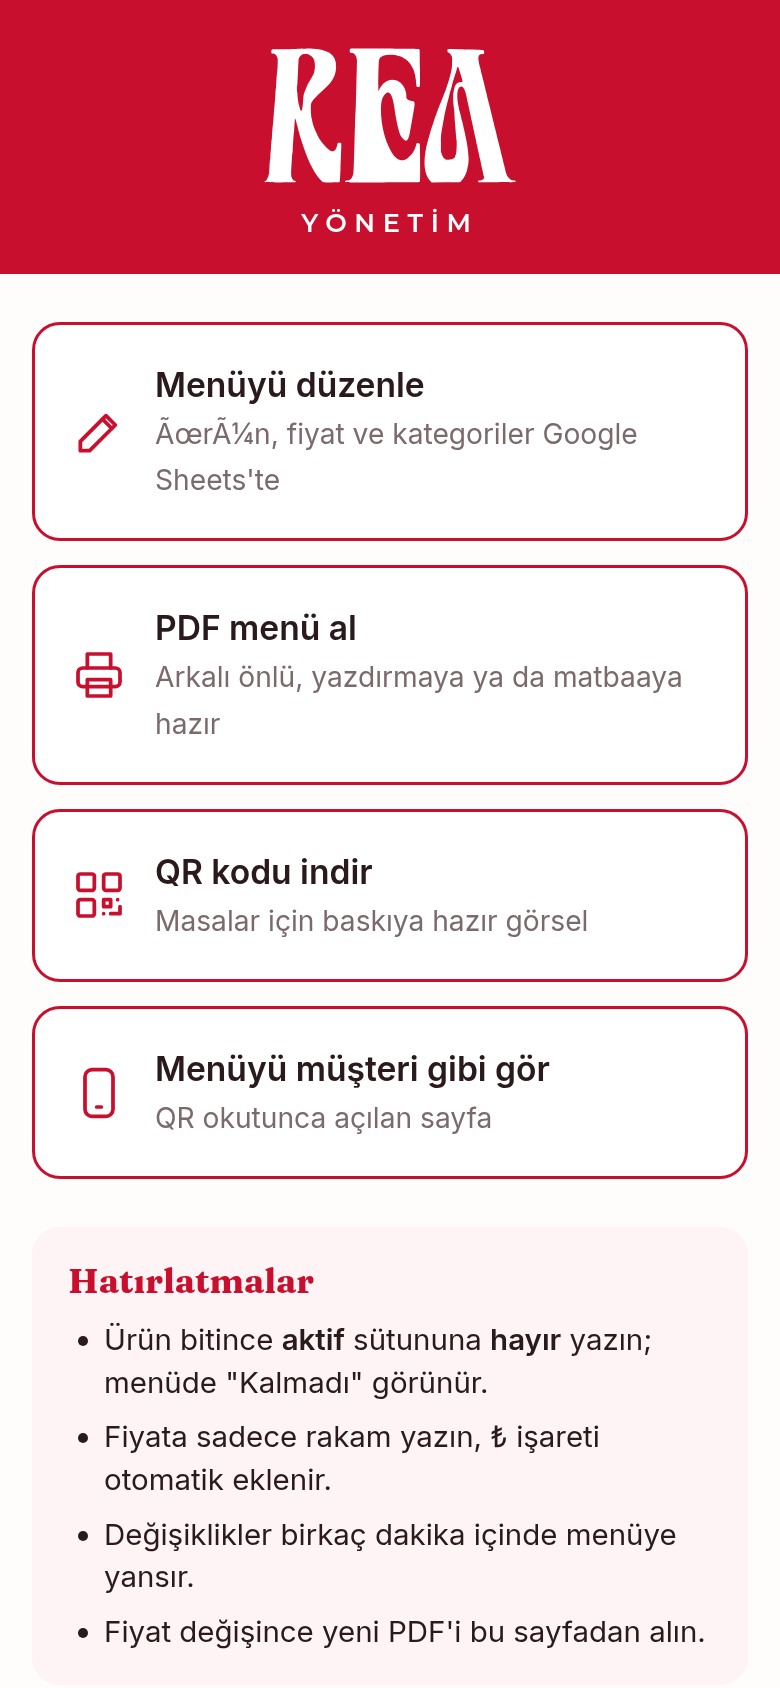
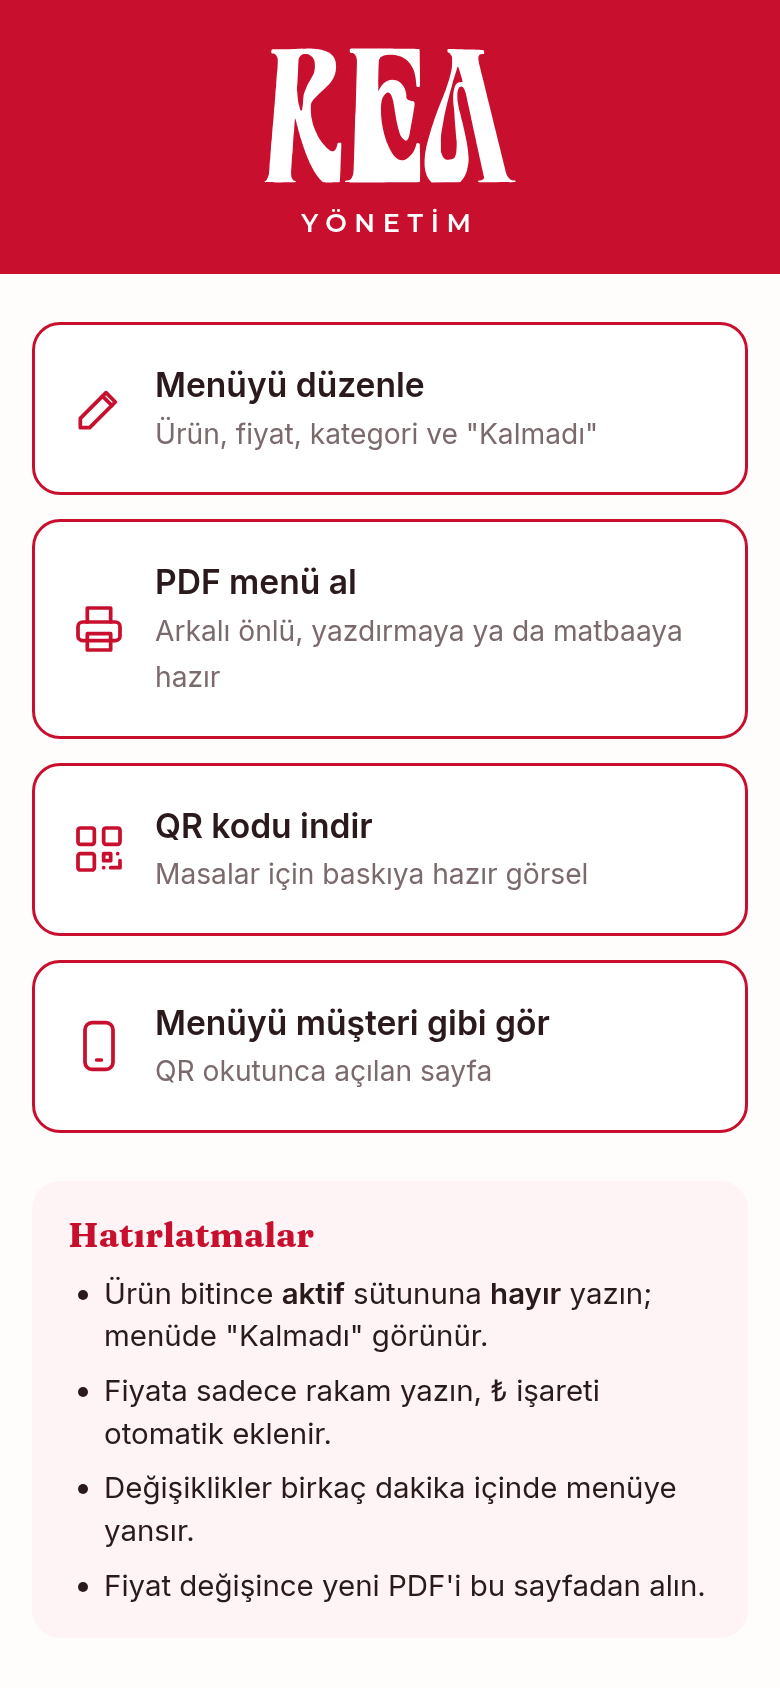
docs: show the admin panel in the pitch deck

diff --git a/tanitim/index.html b/tanitim/index.html
@@ -102,33 +102,18 @@ ol.steps span { color: var(--muted); font-size: 3.6mm; }
 
 <!-- 3. Siz güncellersiniz -->
 <section class="page">
-  <div class="text" style="flex: 0 0 150mm">
+  <div class="text">
     <p class="kicker">Menüyü siz yönetirsiniz</p>
-    <h2>Fiyat değişti mi?<br>Tabloda düzeltin, bitti.</h2>
-    <p class="lead">Menü bir Google Sheets tablosundan okunur. Telefonunuzdan ya da bilgisayardan değiştirdiğiniz her şey birkaç dakika içinde QR menüye yansır.</p>
+    <h2>Fiyat değişti mi?<br>Panelden düzeltin, bitti.</h2>
+    <p class="lead">Şifreyle girdiğiniz yönetim panelinden menünün her şeyini telefonunuzdan değiştirirsiniz. Kaydettiğiniz her şey birkaç dakika içinde QR menüye yansır.</p>
     <ul class="points">
-      <li><b>Kimseyi aramanıza gerek yok</b><span>Yeni ürün, yeni fiyat, yeni kategori: hepsi tablodan.</span></li>
-      <li><b>Ürün bitince "hayır" yazın</b><span>Menüde kalır, yanında "Kalmadı" yazar. Gelince "evet" yaparsınız.</span></li>
-      <li><b>Ek sunucu ya da uygulama gerekmez</b><span>Menü ücretsiz altyapıda çalışır, barındırma masrafı çıkmaz.</span></li>
+      <li><b>Kimseyi aramanıza gerek yok</b><span>Fiyat, yeni ürün, açıklama, yeni kategori: hepsi panelden.</span></li>
+      <li><b>Ürün bitince "Kalmadı"yı işaretleyin</b><span>Menüde kalır, fiyatın yerine "Kalmadı" yazar. Gelince işareti kaldırırsınız.</span></li>
+      <li><b>Veriler sizin hesabınızda</b><span>Menü kendi Google hesabınızda saklanır; ek sunucu, uygulama ya da barındırma masrafı yok.</span></li>
     </ul>
   </div>
-  <div class="visual" style="flex: 1; flex-direction: column; gap: 6mm">
-    <div class="sheet">
-      <div class="bar">REA Menü · Google Sheets</div>
-      <table>
-        <tr><th>kategori</th><th>ürün</th><th>fiyat</th><th>aktif</th></tr>
-        <tr><td>Sıcak Kahveler</td><td>Latte</td><td>120</td><td>evet</td></tr>
-        <tr><td>Soğuk İçecekler</td><td>Cold Brew</td><td>140</td><td>evet</td></tr>
-        <tr class="hl"><td>Soğuk İçecekler</td><td>Frozen Çilek</td><td>135</td><td class="edit">hayır</td></tr>
-        <tr><td>Tatlılar</td><td>San Sebastian</td><td>180</td><td>evet</td></tr>
-      </table>
-    </div>
-    <div class="arrow">↓</div>
-    <div class="sheet" style="width: 90mm; font-size: 3.6mm">
-      <table>
-        <tr><td style="color:var(--muted);text-decoration:line-through;border:0;padding:3mm 4mm">Frozen Çilek</td><td style="text-align:right;color:var(--muted);letter-spacing:.05em;border:0;padding:3mm 4mm;font-weight:600">KALMADI</td></tr>
-      </table>
-    </div>
+  <div class="visual">
+    <div class="phone"><div class="status"><span>9:41</span><i class="bat"></i></div><img src="img/phone-admin.png" alt=""></div>
   </div>
   <p class="pageno">3</p>
 </section>
@@ -140,7 +125,7 @@ ol.steps span { color: var(--muted); font-size: 3.6mm; }
     <h2>Her şey tek bir<br>sayfada</h2>
     <p class="lead">Size özel yönetim sayfasını telefonunuzun ana ekranına ekleyin; uygulama gibi tek dokunuşla açılır.</p>
     <ul class="points">
-      <li><b>Menüyü düzenle</b><span>Google Sheets tablonuz doğrudan açılır.</span></li>
+      <li><b>Menüyü düzenle</b><span>Şifreli panel: fiyat, ürün, kategori ve "Kalmadı".</span></li>
       <li><b>PDF menü al</b><span>Güncel fiyatlarla arkalı önlü menü, yazdırmaya hazır.</span></li>
       <li><b>QR kodu indir</b><span>Masa kartları ya da stantlar için baskıya hazır görsel.</span></li>
     </ul>
